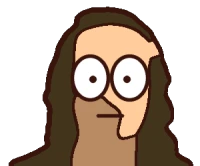
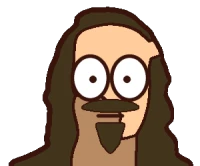
Adulthood: song starts once Tijl is set up; Sam head only with beard, Simon goatee and mustache
Claude-Session: https://claude.ai/code/session_01HvEVkNvEKP38NvKG5uwhnU

Changed region(s): [[0.39, 0.5723, 0.72, 0.6928], [0.45, 0.7229, 0.63, 0.9337]]

diff --git a/src/game/stage.ts b/src/game/stage.ts
@@ -951,7 +951,8 @@ export function createStage(canvas: HTMLCanvasElement, T: (k: string) => string,
     const open = mus.filter((m) => !m.placed).sort((a, b) => a.entry - b.entry)[0];
     if (open) {
       const late = t >= open.entry;
-      msg = late ? `${T('st.nowPlaying')}: ${T('instr.' + open.instr)} (${NAME[open.id]})!` : `${T('st.next')}: ${T('instr.' + open.instr)} (${NAME[open.id]}) ${T('st.before')} ${fmt(open.entry)}`;
+      if (t < 0 && open.entry <= 0) { msg = `${T('st.startWith')}: ${T('instr.' + open.instr)} (${NAME[open.id]})`; }
+      else msg = late ? `${T('st.nowPlaying')}: ${T('instr.' + open.instr)} (${NAME[open.id]})!` : `${T('st.next')}: ${T('instr.' + open.instr)} (${NAME[open.id]}) ${T('st.before')} ${fmt(open.entry)}`;
       if (late) { bg = '#ce460a'; fg = PAPER; }
     } else if (t < L.song.duration) { msg = T('st.allSet'); bg = '#b2cc3c'; }
     if (cable) { msg = `${T('st.cableMsg')} (${NAME[cable.id]})`; bg = '#ce460a'; fg = PAPER; }
@@ -961,7 +962,7 @@ export function createStage(canvas: HTMLCanvasElement, T: (k: string) => string,
       paper([[480 - w / 2, 62], [480 + w / 2, 62], [480 + w / 2, 88], [480 - w / 2, 88]], bg, 91, { j: 1.4 });
       g.fillStyle = fg; g.textAlign = 'center'; g.textBaseline = 'middle'; g.fillText(msg, 480, 76);
     }
-    if (t < 0) text(`${T('st.soundcheck')} ${Math.ceil(-t)}`, 480, 290, 42, PAPER);
+    if (t < 0) text(T('st.soundcheck'), 480, 290, 42, PAPER);
     if (t < -12 || hintT > 0) {
       const lines = [T('st.help1'), T('st.help2')];
       g.fillStyle = 'rgba(15,38,34,.82)'; g.beginPath(); g.roundRect(250, 312, 460, 54, 10); g.fill();
@@ -1065,10 +1066,13 @@ export function createStage(canvas: HTMLCanvasElement, T: (k: string) => string,
       if (paused) { scene(lastT); hud(lastT); text(T('paused'), W / 2, H / 2, 40, '#ffec00'); if (pointer) paused = false; return; }
       let t: number;
       if (preT < 0) {
-        preT += dtReal * (opts.autoplay ? opts.rate : 1);
-        if (preT >= 0) { stems.play(0); t = 0; } else t = preT;
+        // soundcheck: the song only starts once the first musician of the song (Tijl, keys) is set up
+        const first = [...mus].sort((a, b) => a.entry - b.entry)[0];
+        preT = Math.min(-0.01, preT + dtReal * (opts.autoplay ? opts.rate : 1));
+        if (first.placed) { preT = 0; stems.play(0); t = 0; } else t = preT;
       } else t = stems.time();
-      const dt = Math.max(0, Math.min(0.25, t - lastT));
+      // before the song runs, time is frozen at the soundcheck, but people still walk
+      const dt = t < 0 ? dtReal * (opts.autoplay ? opts.rate : 1) : Math.max(0, Math.min(0.25, t - lastT));
       lastT = t;
       for (const c of codes) key(c, t);
       if (pointer) click(pointer.x, pointer.y, t);

diff --git a/src/game/texts.ts b/src/game/texts.ts
@@ -160,6 +160,7 @@ const stEn = {
   'st.help1': 'Tap a musician (or keys 1-8), then the pile (P) or the side table (Z)',
   'st.help2': 'Carrying something? Tap the stage (Enter) and he sets it up',
   'st.soundcheck': 'SOUNDCHECK',
+  'st.startWith': 'The song starts when this is set up',
   'st.mixer': 'MIXER · what you hear',
   'st.party': 'party',
   'st.people': 'people',
@@ -216,6 +217,7 @@ const stNl: StDict = {
   'st.help1': 'Tik een muzikant (of toets 1-8), dan de stapel (P) of de zijtafel (Z)',
   'st.help2': 'Draagt hij iets? Tik het podium (Enter) en hij zet het op',
   'st.soundcheck': 'SOUNDCHECK',
+  'st.startWith': 'Het liedje start als dit staat',
   'st.mixer': 'MIXER · wat je hoort',
   'st.party': 'feest',
   'st.people': 'mensen',
@@ -271,6 +273,7 @@ const stFr: StDict = {
   'st.help1': 'Touche un musicien (ou 1-8), puis la pile (P) ou la table (Z)',
   'st.help2': "Il porte quelque chose ? Touche la scène (Entrée) et il l'installe",
   'st.soundcheck': 'BALANCE',
+  'st.startWith': 'La chanson commence quand ceci est installé',
   'st.mixer': 'TABLE DE MIXAGE · ce que tu entends',
   'st.party': 'fête',
   'st.people': 'personnes',

diff --git a/scripts/game/toon_heads.py b/scripts/game/toon_heads.py
@@ -7,10 +7,10 @@ import sys, os
 import numpy as np, cv2
 
 # cut under the chin / collar (fraction of the photo height from the top of the hair)
-CUT = {'sam': 0.7, 'yorick': 0.86, 'corentin': 0.84, 'hans': 0.86, 'tijl': 0.84, 'wim': 0.84, 'simon': 0.78, 'tomas': 0.84}
+CUT = {'sam': 0.53, 'yorick': 0.86, 'corentin': 0.84, 'hans': 0.86, 'tijl': 0.84, 'wim': 0.84, 'simon': 0.78, 'tomas': 0.84}
 # eyes (left x, right x, y) and mouth (y, kind) in units of the crop width (crop = 300 px wide)
 FACE = {
-    'sam': (0.40, 0.57, 0.31, 0.45, 'smile'),
+    'sam': (0.38, 0.60, 0.46, 0.66, 'smile'),
     'yorick': (0.36, 0.65, 0.69, 1.05, 'grin'),
     'corentin': (0.36, 0.66, 0.61, 0.86, 'smile'),
     'hans': (0.32, 0.66, 0.91, 1.28, 'flat'),
@@ -19,12 +19,21 @@ FACE = {
     'simon': (0.43, 0.67, 0.39, 0.58, 'flat'),
     'tomas': (0.25, 0.61, 0.55, 0.84, 'flat'),
 }
+# horizontal crop (fraction of the photo width) for photos that are a bust, not a head
+CROPX = {'sam': (0.27, 0.73)}
+# skin above this line (crop-width units) is hair: no bald spots
+HAIRLINE = {'sam': 0.33}
+# facial hair drawn on top (Monia, 2026-11-26): full beard, goatee, mustache
+BEARD = {'sam': ['full'], 'simon': ['goatee', 'mustache']}
 INK = (12, 20, 58)  # BGR of #3a140c
 WIDTH = 300
 
 
-def crop(path, frac):
+def crop(path, frac, name):
     im = cv2.imread(path, cv2.IMREAD_UNCHANGED)
+    if name in CROPX:
+        x0, x1 = CROPX[name]; W0 = im.shape[1]
+        im = im[:, int(W0 * x0):int(W0 * x1)]
     a = im[:, :, 3]
     rows = np.where(a.max(1) > 128)[0]
     top, bot = rows[0], rows[-1]
@@ -96,12 +105,16 @@ def flat_regions(bgr, mask, K):
 
 
 def toon(path, out, name):
-    im = crop(path, CUT[name])
+    im = crop(path, CUT[name], name)
     h, w = im.shape[:2]
     bgr = im[:, :, :3]
     mask = cv2.morphologyEx((im[:, :, 3] > 110).astype(np.uint8), cv2.MORPH_OPEN, np.ones((7, 7), np.uint8))
     mask = cv2.GaussianBlur(mask.astype(np.float32), (0, 0), 4) > 0.5
     L, colors = flat_regions(bgr, mask, 3)
+    if name in HAIRLINE:
+        hl = int(HAIRLINE[name] * w)
+        dark = 1 if colors[1].astype(int).sum() < colors[2].astype(int).sum() else 2
+        L[:hl][L[:hl] == 0] = dark
     res = np.zeros((h, w, 4), np.uint8)
     for k, c in enumerate(colors): res[L == k, :3] = c
     res[mask, 3] = 255
@@ -114,6 +127,32 @@ def toon(path, out, name):
     out_m = cv2.dilate(mask.astype(np.uint8), cv2.getStructuringElement(cv2.MORPH_ELLIPSE, (11, 11)))
     pad = (out_m > 0) & ~mask
     res[pad] = (*INK, 255)
+    # facial hair in the darkest hair color
+    lx, rx, ey, my, kind = FACE[name]
+    s = w
+    hair = min(colors[1:], key=lambda c: int(c.astype(int).sum()))
+    hairc = (int(hair[0]), int(hair[1]), int(hair[2]), 255)
+    mx = int((lx + rx) / 2 * s)
+    for b in BEARD.get(name, []):
+        lay = np.zeros((h, w), np.uint8)
+        if b == 'full':
+            # beard around the jaw only: lower half of an oval around the mouth, inside the head
+            cv2.ellipse(lay, (mx, int((my - 0.04) * s)), (int(0.24 * s), int(0.25 * s)), 0, 0, 180, 1, -1)
+            cv2.ellipse(lay, (mx, int((my - 0.04) * s)), (int(0.25 * s), int(0.05 * s)), 0, 180, 360, 1, -1)
+            lay &= mask.astype(np.uint8)
+            lay = cv2.erode(lay, np.ones((5, 5), np.uint8))
+        elif b == 'goatee':
+            # pointed goatee under the mouth
+            pts = np.array([(mx - 0.07 * s, (my + 0.04) * s), (mx + 0.07 * s, (my + 0.04) * s), (mx + 0.04 * s, (my + 0.14) * s),
+                            (mx, (my + 0.19) * s), (mx - 0.04 * s, (my + 0.14) * s)], np.int32)
+            cv2.fillPoly(lay, [pts], 1)
+        elif b == 'mustache':
+            cv2.ellipse(lay, (mx, int((my - 0.035) * s)), (int(0.14 * s), int(0.04 * s)), 0, 180, 360, 1, -1)
+            cv2.ellipse(lay, (mx, int((my - 0.045) * s)), (int(0.14 * s), int(0.025 * s)), 0, 0, 180, 1, -1)
+        lay = cv2.GaussianBlur(lay.astype(np.float32), (0, 0), 2) > 0.5
+        res[lay] = hairc
+        ring = cv2.dilate(lay.astype(np.uint8), cv2.getStructuringElement(cv2.MORPH_ELLIPSE, (5, 5))).astype(bool) & ~lay & mask
+        res[ring] = (*INK, 255)
     # South Park eyes: two big white ovals that touch, small black pupils; a simple mouth
     lx, rx, ey, my, kind = FACE[name]
     s = w
@@ -124,6 +163,9 @@ def toon(path, out, name):
         cv2.ellipse(res, (cx2, int(ey * s)), (int(ew * 0.52), int(ew * 0.62)), 0, 0, 360, (*INK, 255), 3, cv2.LINE_AA)
         cv2.circle(res, (int(cx2 + (lx + rx) / 2 * s - cx) // 1 if False else cx2 + int(((lx + rx) / 2 * s - cx) * 0.12), int(ey * s + ew * 0.05)), max(3, int(ew * 0.1)), (*INK, 255), -1, cv2.LINE_AA)
     mx, mw = int((lx + rx) / 2 * s), int((rx - lx) * s * 0.45)
+    if 'full' in BEARD.get(name, []):
+        cv2.ellipse(res, (mx, int(my * s) - 4), (int(mw * 0.9), int(mw * 0.4)), 0, 0, 360, (*[int(v) for v in colors[0]], 255), -1, cv2.LINE_AA)
+        cv2.ellipse(res, (mx, int(my * s) - 4), (int(mw * 0.9), int(mw * 0.4)), 0, 0, 360, (*INK, 255), 3, cv2.LINE_AA)
     if kind == 'grin':
         pts = cv2.ellipse2Poly((mx, int(my * s) - 6), (mw, int(mw * 0.6)), 0, 0, 180, 10)
         cv2.fillPoly(res, [pts], (255, 255, 255, 255), cv2.LINE_AA); cv2.polylines(res, [pts], True, (*INK, 255), 3, cv2.LINE_AA)
